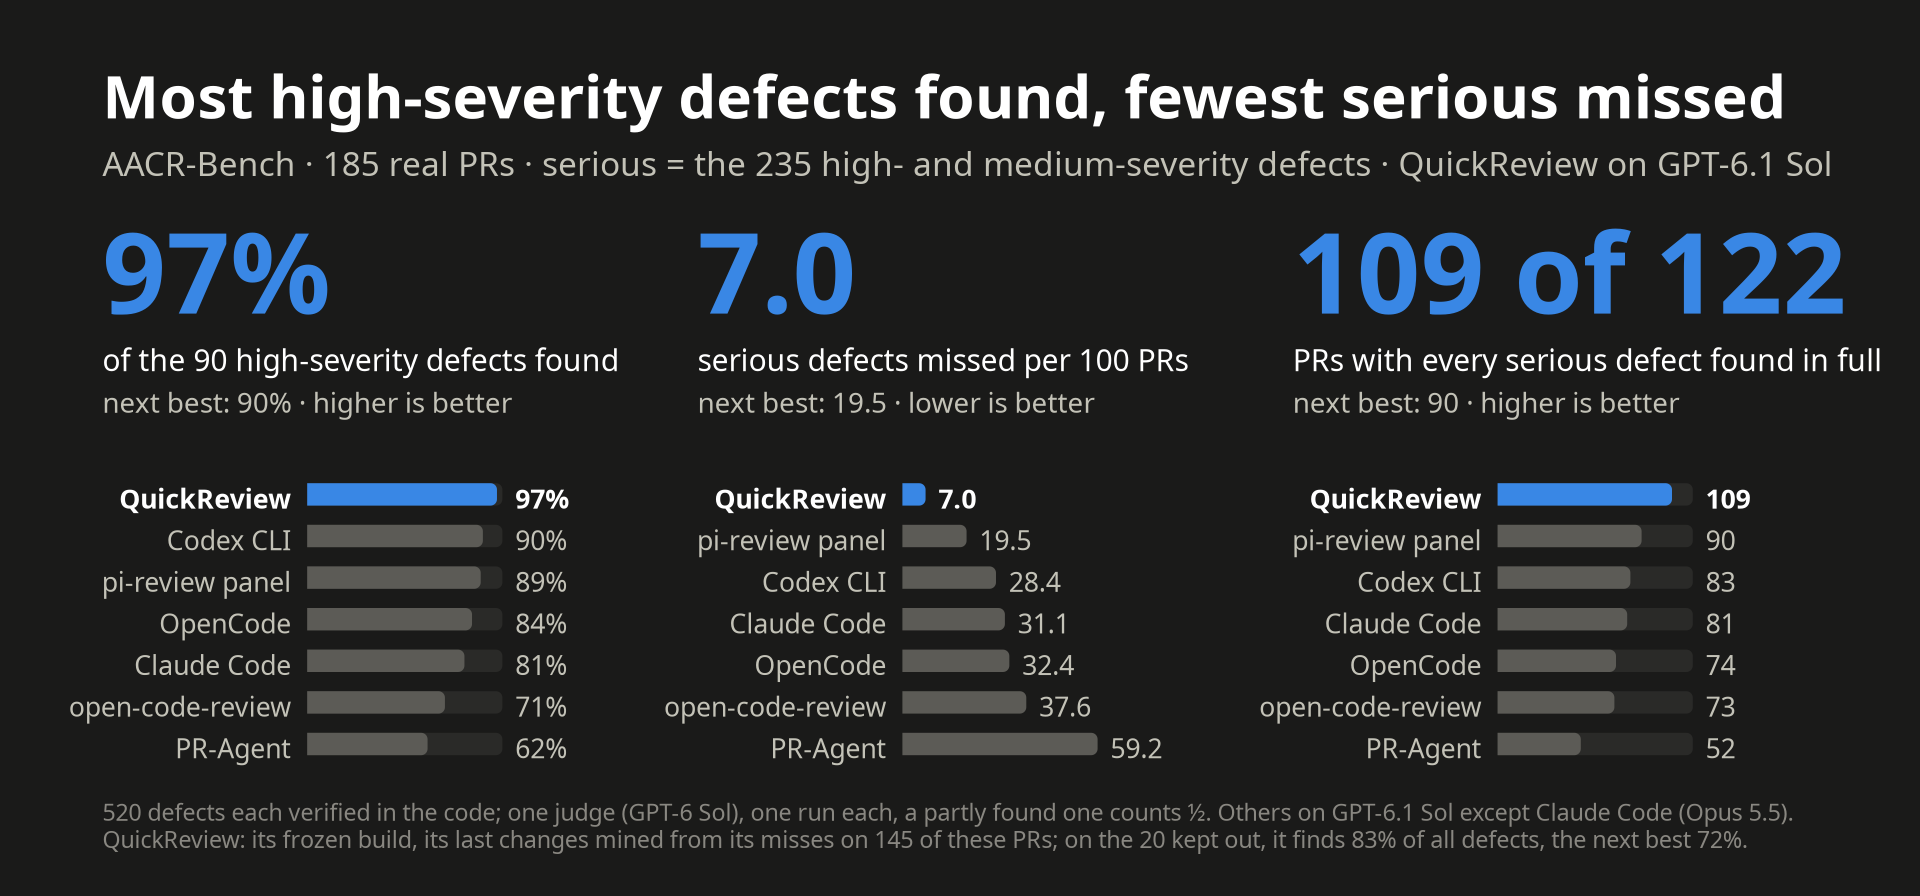
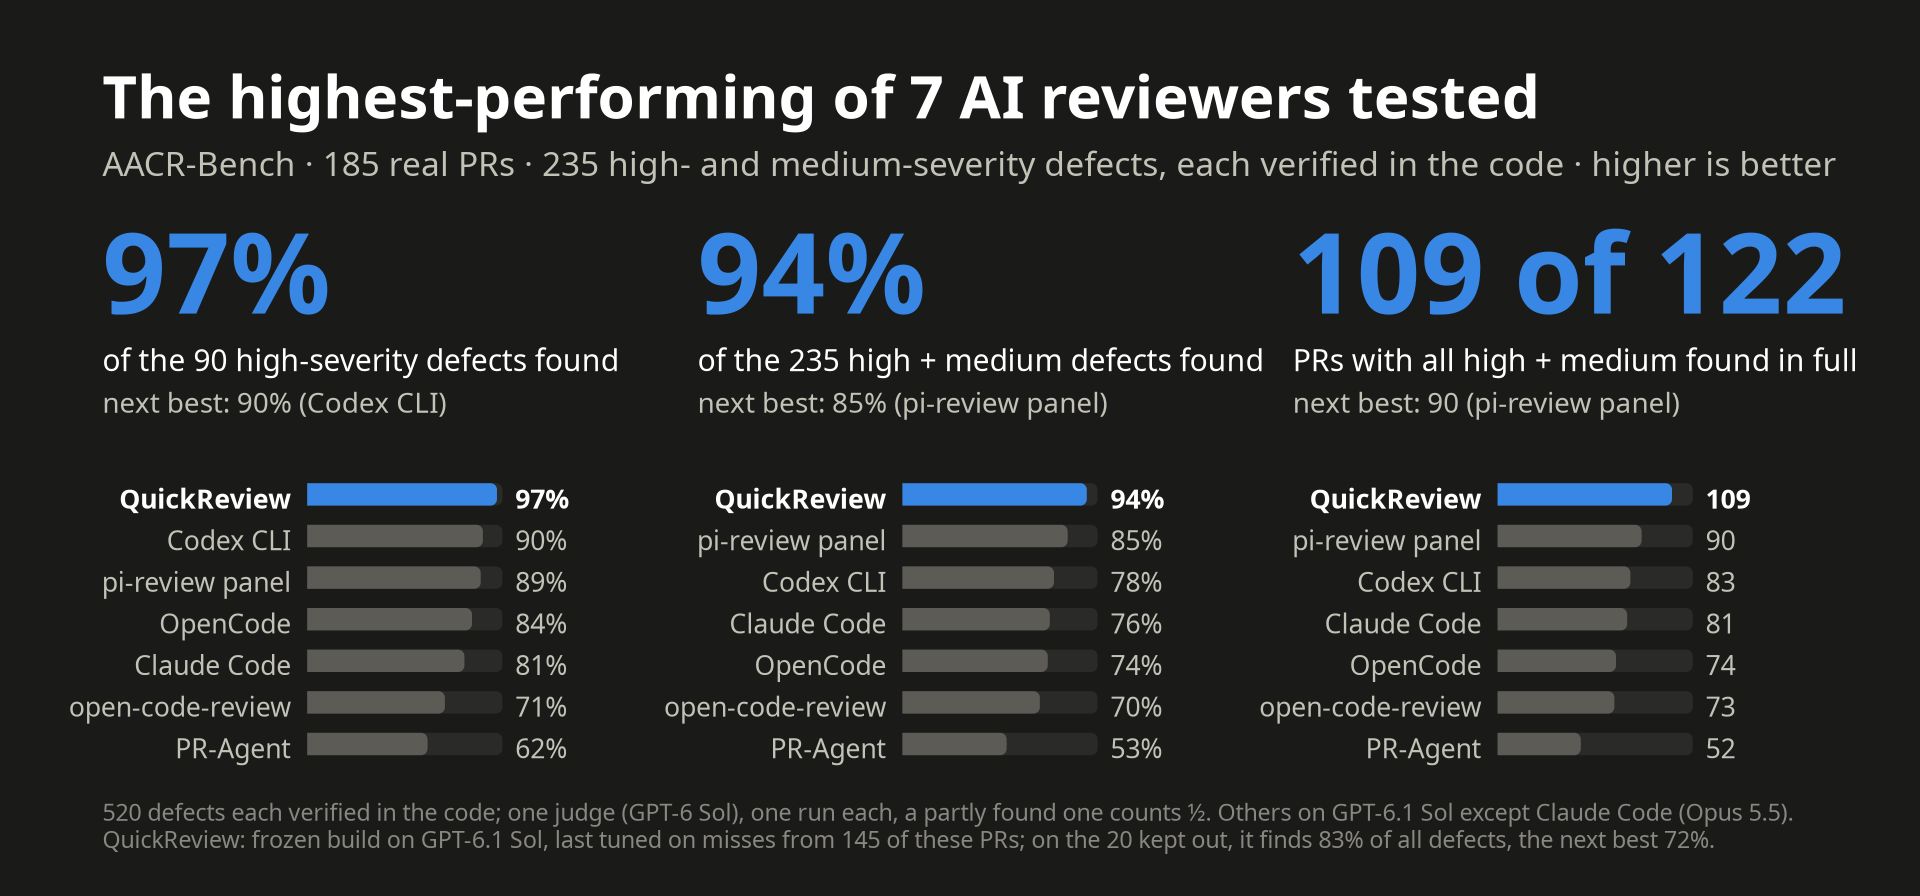
README hero: share of high- and medium-severity defects found, not misses per 100 PRs
The middle number is now 94% of the 235 high- and medium-severity
defects found (next best 85%) instead of 7 missed per 100 PRs, so all
three panels read the same way. "Serious" is gone from the image and the
README: it read as stricter than high severity, while it meant high plus
medium. The title is "The highest-performing of 7 AI reviewers tested",
computed from a 2-point lead on all three panels.

diff --git a/bench/aacr/showcase/readme_charts.py b/bench/aacr/showcase/readme_charts.py
@@ -10,7 +10,7 @@
 The numbers are the papers' tables, copied here with the table each row comes from, so the
 README's charts and its prose read the same source: AACR-Bench is benchmark.tex Table
 tab:final (QuickReview's row: its frozen build, quickreview.tex Table tab:frozen), Martian is
-benchmark.tex Table tab:martianfinal, Qodo is benchmark.tex Table tab:qodo. The serious-defect
+benchmark.tex Table tab:martianfinal, Qodo is benchmark.tex Table tab:qodo. The high + medium
 counts (bench-hero) are computed from the per-defect credits in data/aacr.json,
 the same runs as tab:final. Every title is computed from the rows. The look is v4's (theme_v4);
 the images carry no repo file names.
@@ -102,8 +102,8 @@ KEYS = {"quickreview": QR, "pi-review": "pi-review panel", "claude-code": "Claud
 
 
 def serious():
-    """Per reviewer of AACR, from data/aacr.json's per-defect credits: high-severity found, serious (high +
-    medium) missed per 100 PRs, and the PRs with a serious defect where every one was found in full."""
+    """Per reviewer of AACR, from data/aacr.json's per-defect credits: high-severity found, high + medium found,
+    and the PRs with a high or medium defect where every one of them was found in full."""
     with open(DATA) as f:
         d = json.load(f)
     high = [x for x in d["defects"] if x["severity"] == "high"]
@@ -112,7 +112,6 @@ def serious():
     for x in ser:
         prs.setdefault(x["pr"], []).append(x)
     rows = {name: {"high": sum(x["credit"][k] for x in high),
-                   "missed": 100 * (len(ser) - sum(x["credit"][k] for x in ser)) / d["cases"],
                    "found": sum(x["credit"][k] for x in ser),
                    "clean": sum(all(x["credit"][k] == 1.0 for x in xs) for xs in prs.values())}
             for k, name in KEYS.items()}
@@ -217,50 +216,43 @@ def fig_qodo(T):
 
 HERO_SOURCE = ("520 defects each verified in the code; one judge (GPT-6 Sol), one run each, a partly found one counts ½. "
                + OTHERS.replace("Other reviewers: all", "Others").replace(" (Claude Opus 5.5)", " (Opus 5.5)")
-               + "\nQuickReview: its frozen build, its last changes mined from its misses on 145 of these PRs; on the 20 "
-                 "kept out, it finds 83% of all defects, the next best 72%.")
-MARGIN = {"high": 2.0, "missed": 2.0, "clean": 2.0}  # never headline a lead under 2 points (or 2 per 100 PRs, 2 PRs)
+               + "\nQuickReview: frozen build on GPT-6.1 Sol, last tuned on misses from 145 of these PRs; on the 20 kept out, "
+                 "it finds 83% of all defects, the next best 72%.")
+MARGIN = 2.0  # never headline a lead under 2 points
 
 
 def fig_hero(T):
-    """Three numbers on serious defects, each over the field it was measured against."""
+    """Three shares of the defects that matter, each over the field it was measured against."""
     S, n_high, n_ser, n_prs, n_cases = serious()
-    def gap(k, sign):  # QuickReview's lead over the next reviewer, in the panel's own unit (points for high)
-        nxt = max(sign * r[k] for n, r in S.items() if n != QR)
-        return (sign * S[QR][k] - nxt) * (100 / n_high if k == "high" else 1)
-    lead = all(gap(k, sg) >= MARGIN[k] for k, sg in (("high", 1), ("missed", -1), ("clean", 1)))
-    p = Page4(T, h=560)
-    p.title("Most high-severity defects found, fewest serious missed" if lead else "Serious defects found and missed")
-    p.metric(f"AACR-Bench · {n_cases} real PRs · serious = the {n_ser} high- and medium-severity defects · "
-             "QuickReview on GPT-6.1 Sol")
-    panels = [  # (key, big number, what it is, the bar's full length, a bar's value label, higher is better)
-        ("high", pct(100 * S[QR]["high"] / n_high), f"of the {n_high} high-severity defects found", n_high,
-         lambda v: pct(100 * v / n_high), True),
-        ("missed", f"{S[QR]['missed']:.1f}", "serious defects missed per 100 PRs",
-         max(r["missed"] for r in S.values()), lambda v: f"{v:.1f}", False),
-        ("clean", f"{S[QR]['clean']} of {n_prs}", "PRs with every serious defect found in full", n_prs,
-         lambda v: f"{v:.0f}", True),
+    panels = [  # (key, out of, big number, what it is)
+        ("high", n_high, None, f"of the {n_high} high-severity defects found"),
+        ("found", n_ser, None, f"of the {n_ser} high + medium defects found"),
+        ("clean", n_prs, f"{S[QR]['clean']} of {n_prs}", "PRs with all high + medium found in full"),
     ]
+    lead = all(100 * (S[QR][k] - max(r[k] for n, r in S.items() if n != QR)) / n >= MARGIN for k, n, _, _ in panels)
+    p = Page4(T, h=560)
+    p.title(f"The highest-performing of {len(S)} AI reviewers tested" if lead else f"{len(S)} AI reviewers tested")
+    p.metric(f"AACR-Bench · {n_cases} real PRs · {n_ser} high- and medium-severity defects, each verified in the code · "
+             "higher is better")
     col, top = 372, 296
-    for i, (k, big, what, vmax, fmt, up) in enumerate(panels):
+    for i, (k, vmax, big, what) in enumerate(panels):
         x0 = 64 + col * i
-        rows = sorted(S.items(), key=lambda kv: -kv[1][k] if up else kv[1][k])
-        nxt = next(r for n, r in rows if n != QR)
-        p.text(x0, 196, big, size=50, weight="bold", color=T["qr"], va="baseline")
+        fmt = (lambda v: f"{v:.0f}") if big else (lambda v, n=vmax: pct(100 * v / n))
+        rows = sorted(S.items(), key=lambda kv: -kv[1][k])
+        nxt = next((n, r) for n, r in rows if n != QR)
+        p.text(x0, 196, big or fmt(S[QR][k]), size=50, weight="bold", color=T["qr"], va="baseline")
         p.text(x0, 232, what, size=13.5, va="baseline")
-        p.text(x0, 258, f"next best: {fmt(nxt[k])} · {'higher' if up else 'lower'} is better", size=12.5,
-               color=T["ink2"], va="baseline")
+        p.text(x0, 258, f"next best: {fmt(nxt[1][k])} ({nxt[0]})", size=12.5, color=T["ink2"], va="baseline")
         pitch = 26
         for j, (name, r) in enumerate(rows):
             y = top + pitch * (j + 0.5)
             ours = name == QR
             ink, wt = (T["ink"], "bold") if ours else (T["ink2"], "normal")
             bx0, bx1 = x0 + 128, x0 + 250
-            if up:
-                theme.bar(p.c, bx0, bx1, y, 14, T["empty"], zorder=2)
+            theme.bar(p.c, bx0, bx1, y, 14, T["empty"], zorder=2)
             theme.bar(p.c, bx0, bx0 + (bx1 - bx0) * r[k] / vmax, y, 14, T["qr"] if ours else T["other"], zorder=3)
             p.text(bx0 - 10, y, "QuickReview" if ours else name, ha="right", size=12, color=ink, weight=wt)
-            p.text((bx1 if up else bx0 + (bx1 - bx0) * r[k] / vmax) + 8, y, fmt(r[k]), size=12, color=ink, weight=wt)
+            p.text(bx1 + 8, y, fmt(r[k]), size=12, color=ink, weight=wt)
     p.source(HERO_SOURCE)
     return p
 

diff --git a/README.md b/README.md
@@ -20,14 +20,14 @@ re-derives every candidate from the code** before one review is posted.
 
 <picture>
   <source media="(prefers-color-scheme: dark)" srcset="docs/media/bench-hero-dark.png">
-  <img src="docs/media/bench-hero.png" alt="AACR-Bench, 185 real PRs, QuickReview on GPT-6.1 Sol against six other reviewers. High-severity defects found: QuickReview 97%, next best Codex CLI 90%. Serious (high- and medium-severity) defects missed per 100 PRs: QuickReview 7, next best pi-review panel 19.5, worst PR-Agent 59.2. PRs with every serious defect found in full: QuickReview 109 of 122, next best pi-review panel 90.">
+  <img src="docs/media/bench-hero.png" alt="AACR-Bench, 185 real PRs, QuickReview on GPT-6.1 Sol against six other reviewers. High-severity defects found: QuickReview 97%, next best Codex CLI 90%. High- and medium-severity defects found, 235 in all: QuickReview 94%, next best pi-review panel 85%, lowest PR-Agent 53%. PRs with every high- and medium-severity defect found in full: QuickReview 109 of 122, next best pi-review panel 90.">
 </picture>
 
 On 185 real PRs with 520 defects each verified in the code, QuickReview on
 GPT-6.1 Sol finds **97% of the high-severity defects** and **89% of all of
-them**. It misses **7 serious defects per 100 PRs**, where the best of the six
-other reviewers we ran misses 19.5, and on **109 of the 122 PRs** that carry a
-high- or medium-severity defect it finds every one in full. On the same model
+them**. Of the 235 high- and medium-severity defects it finds **94%**, where
+the best of the six other reviewers we ran finds 85%, and on **109 of the 122
+PRs** that carry one it finds every one in full. On the same model
 it also finds more than the model maker's own reviewer: 97% and 89% against
 90% and 55% for Codex CLI on GPT-6.1 Sol, and 94% and 95% against 75% and 60%
 for Claude Code's `/code-review` on Claude Opus 5.5 (40 PRs it was tuned on).
@@ -103,9 +103,9 @@ of them true but minor.
 
 **What it misses.** Of the 235 high- and medium-severity defects,
 QuickReview misses 13, counting a partly found defect as half (10 missed
-outright, 6 found only in part): 7 per 100 PRs. The next best, the pi-review
-panel, misses 36 (19.5 per 100 PRs). On the 20 PRs kept out of its last
-tuning round it misses 2 of 31, the panel 5.
+outright, 6 found only in part). The next best, the pi-review panel, misses
+36. On the 20 PRs kept out of its last tuning round it misses 2 of 31, the
+panel 5.
 
 <picture>
   <source media="(prefers-color-scheme: dark)" srcset="docs/media/bench-same-model-dark.png">
